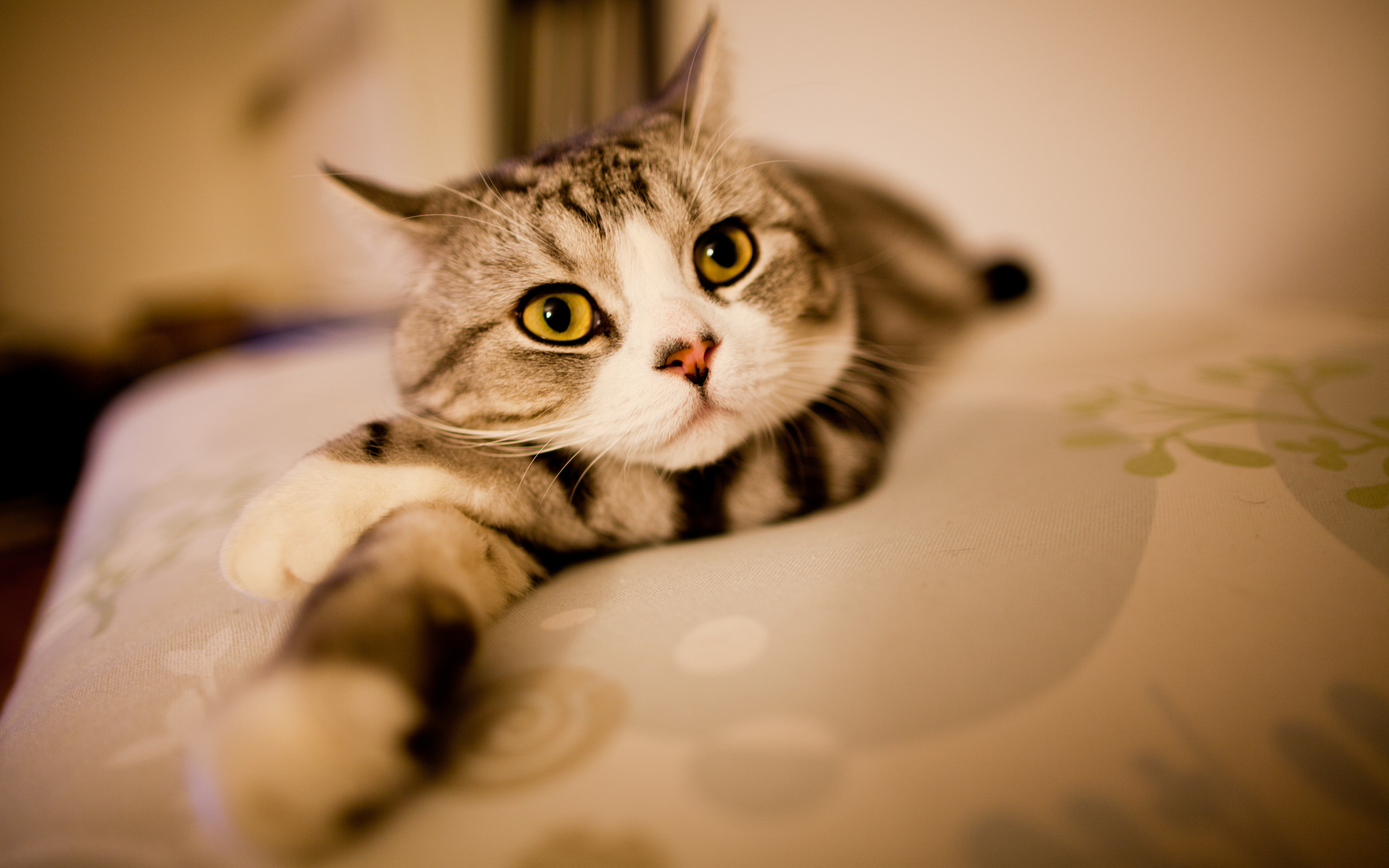
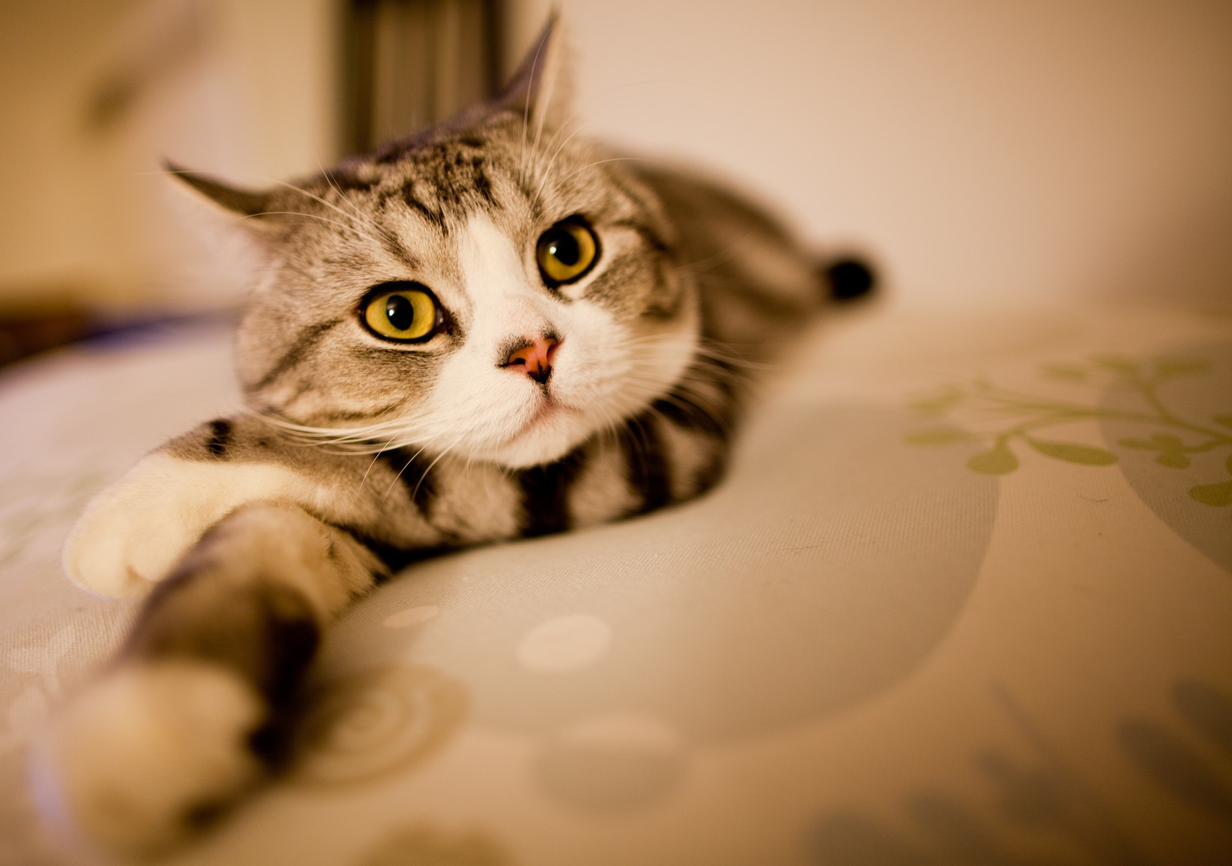
Adjusted some styles for cover image.

diff --git a/resources/views/layouts/master.blade.php b/resources/views/layouts/master.blade.php
@@ -285,13 +285,22 @@
 
         /* Cover Image style */
         .cover-image {
-          background: url('../img/cover.jpg') center 30% no-repeat;
+          background: url('../img/cover.jpg') 30% 30% no-repeat;
+          background-size: cover;
         }
+
         .cover {
           min-height: 50vh;
           background-color: rgba(255, 249, 196, 0.3);
           background-image: url('../img/mask.png');
         }
+
+        @media screen and (max-width: 768px) {
+          .cover {
+            min-height: 30vh;
+          }
+        }
+
         .cover h1 {
           color: #fff;
         }
@@ -326,7 +335,7 @@
           color: #1e1a1b;
           text-decoration: none;
         }
-        .link--takiri::before {
+/*        .link--takiri::before {
           content: '';
           position: absolute;
           height: 36px;
@@ -340,11 +349,11 @@
           transform: rotate3d(0,0,1,45deg) scale3d(0,1,1);
           -webkit-transition: -webkit-transform 0.5s;
           transition: transform 0.5s;
-        }
-        .link--takiri:hover::before {
+        }*/
+/*        .link--takiri:hover::before {
           -webkit-transform: rotate3d(0,0,1,45deg) scale3d(1,1,1);
           transform: rotate3d(0,0,1,45deg) scale3d(1,1,1);
-        }
+        }*/
         .link--takiri span {
           font-size: 20%;
           font-weight: 400;
@@ -363,14 +372,35 @@
           -webkit-transform: translate3d(0,0,0);
           transform: translate3d(0,0,0);
         }
-        @media screen and (max-width: 42em) {
+        @media screen and (max-width: 769px) {
           .link--takiri {
             font-size: 3.5em;
           }
         }
 
         .grid__item>a {
-          top: 20vh;
+          bottom: 0;
+          margin-right: 5%;
+          margin-top: 30%;
+          margin-bottom: 1%;
+        }
+
+        @media screen and (max-width: 1199px) {
+          .grid__item>a {
+            margin-top: 40%;
+          }
+        }
+
+        @media screen and (max-width: 992px) {
+          .grid__item>a {
+            margin-top: 50%;
+          }
+        }
+
+        @media screen and (max-width: 768px) {
+          .grid__item {
+            text-align: center;
+          }
         }
 
       </style>

diff --git a/resources/views/welcome.blade.php b/resources/views/welcome.blade.php
@@ -7,7 +7,7 @@
   <div class="cover">
     <div class="container">
       <div class="grid">
-        <div class="grid__item text-center">
+        <div class="grid__item text-right">
           <a class="link link--takiri" href="/">Welcome <span>Buy What You Love</span></a>
         </div>
       </div>
